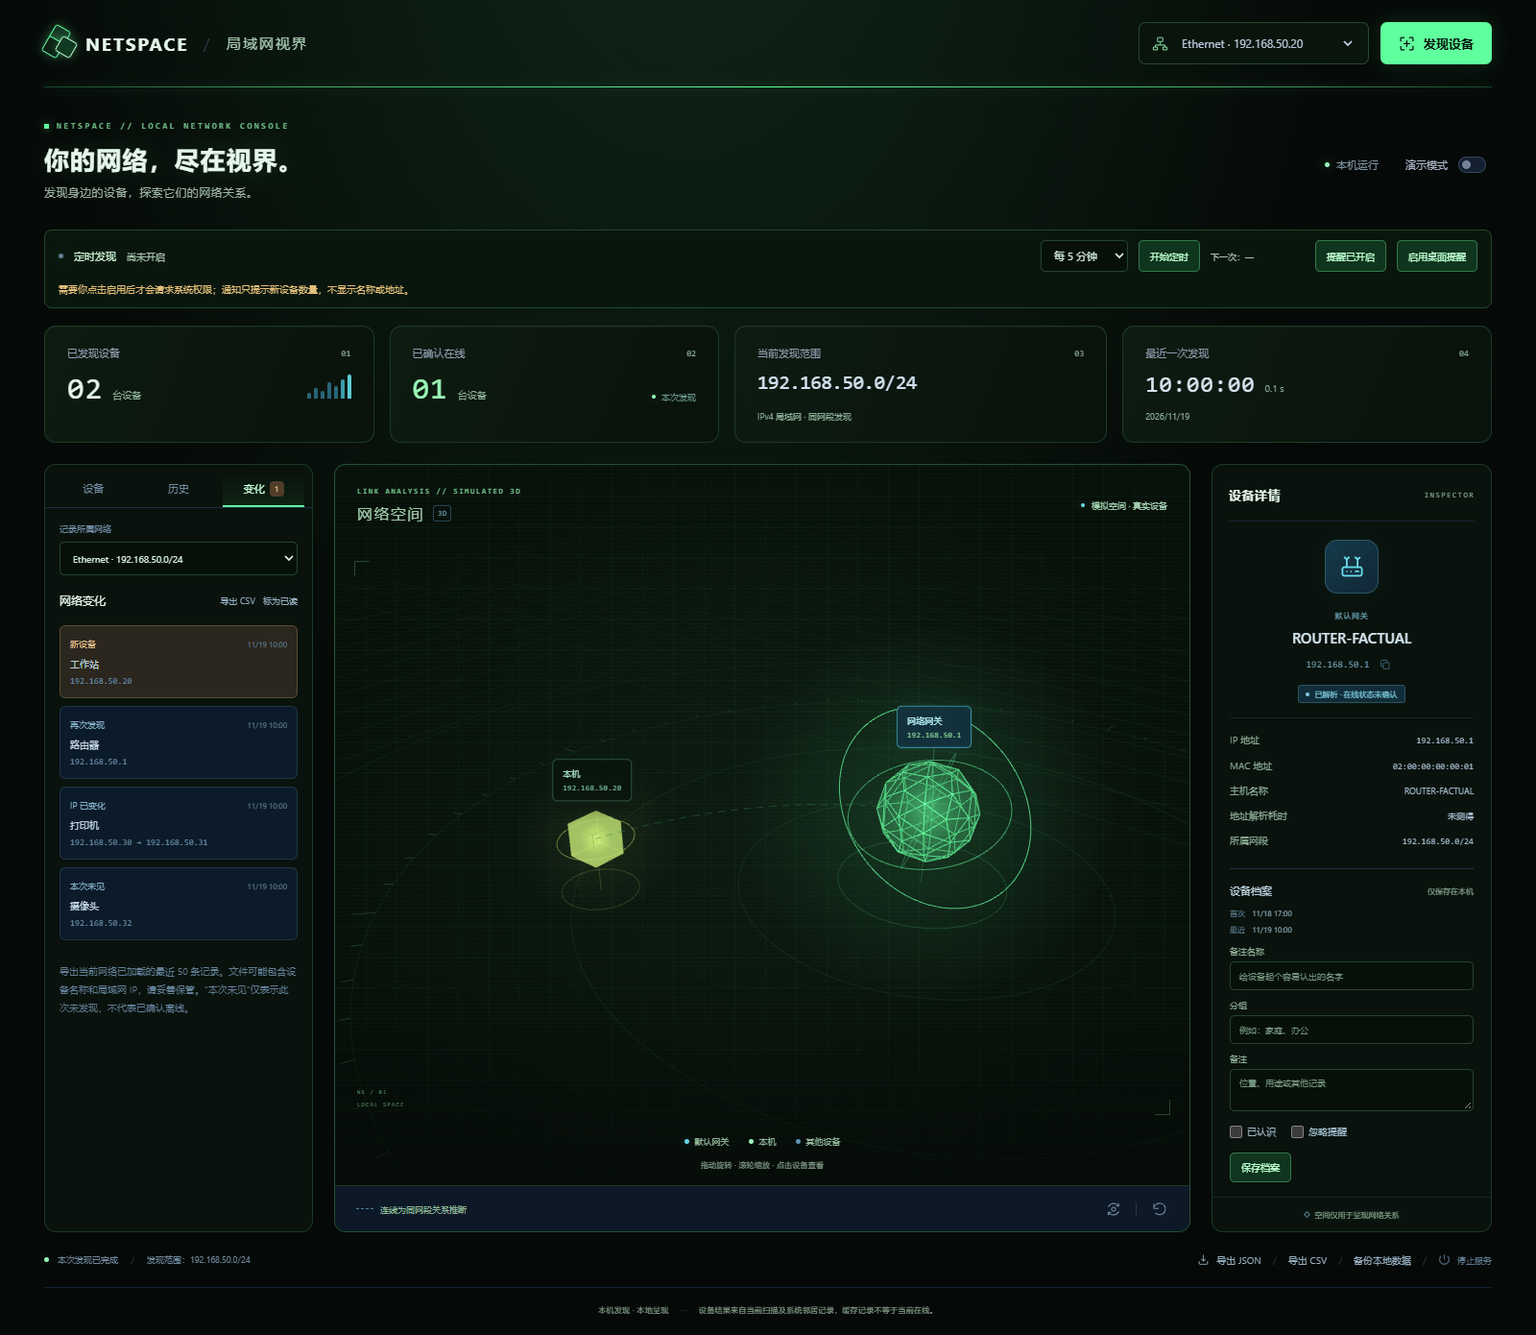
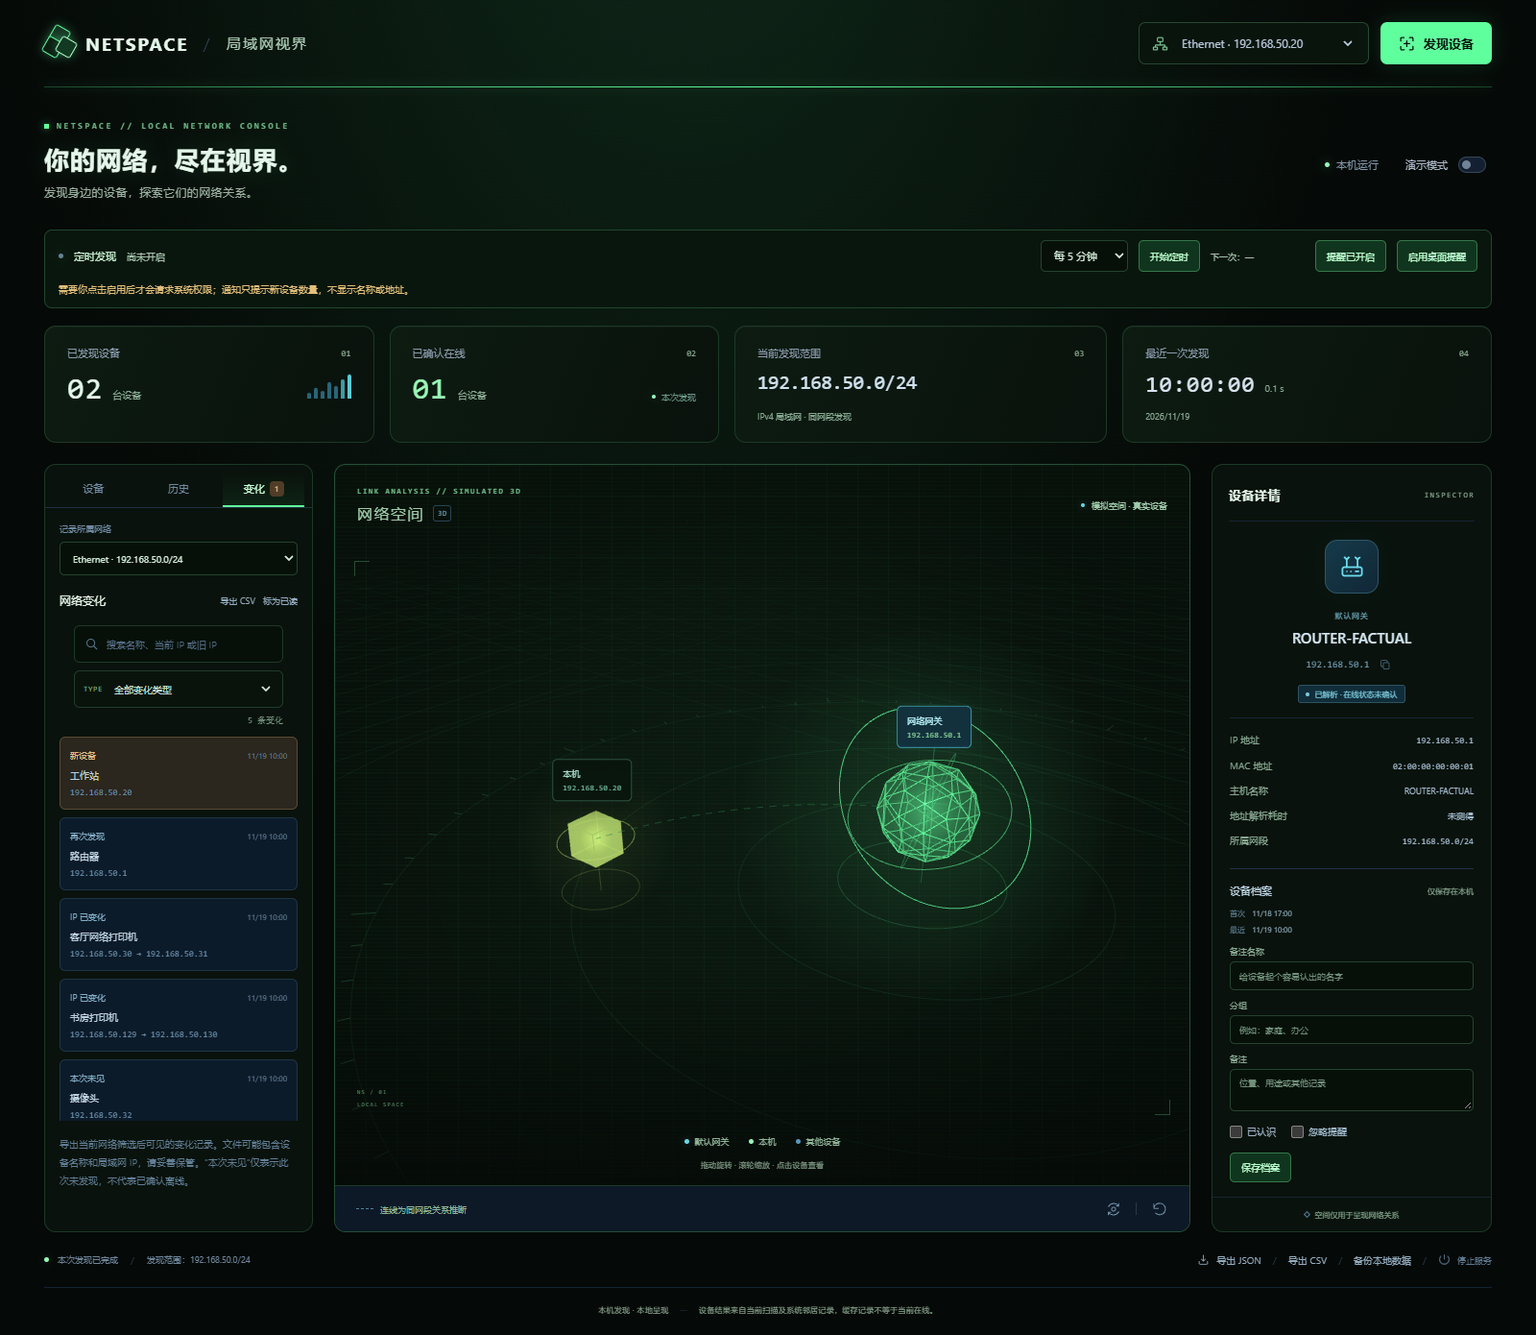
feat: filter and search network changes

Changed region(s): [[0.0312, 0.464, 0.2188, 0.8971]]

diff --git a/web/workspace.js b/web/workspace.js
@@ -1,5 +1,6 @@
 import { buildHistoryComparisonCsv, buildNetworkEventsCsv } from '/csv.js';
 import { deviceIdentity } from '/identity.js';
+import Fuse from '/vendor/fuse.min.js';
 const EMPTY_PROFILE = { alias: '', notes: '', group: '', known: false, ignored: false };
 const EVENT_LABELS = { new: '新设备', returned: '再次发现', not_seen: '本次未见', ip_changed: 'IP 已变化' };
 
@@ -13,6 +14,8 @@ export function createWorkspace(options) {
   let wasDemo = false;
   let networks = [], scans = [], events = [], records = [];
   let unreadCount = 0, archiveError = '', monitorError = '', loadingReplay = false;
+  let eventKindFilter = '', eventQuery = '', eventSearchIndex = null, eventSearchSignature = '';
+  let visibleEvents = [];
   let desktopNotificationsBusy = false;
   let networkSignature = '', historySignature = '', eventSignature = '', liveSignature = '';
   const drafts = new Map(), notifiedEvents = new Set();
@@ -199,15 +202,33 @@ export function createWorkspace(options) {
     finally { if (request === comparisonRequest && !destroyed) { comparisonLoading = false; rerender(); } }
   }
   function renderEvents() {
+    const networkEvents = events.filter(event => event.networkId === networkId);
+    const searchSignature = JSON.stringify([networkId, networkEvents]);
+    if (eventSearchSignature !== searchSignature) {
+      eventSearchSignature = searchSignature;
+      eventSearchIndex = networkEvents.length ? new Fuse(networkEvents, {
+        ignoreLocation: true, minMatchCharLength: 1, shouldSort: true, threshold: 0.32,
+        keys: ['name'],
+      }) : null;
+    }
+    const typedEvents = eventKindFilter ? networkEvents.filter(event => event.kind === eventKindFilter) : networkEvents;
+    if (eventQuery && /^[0-9.]+$/.test(eventQuery)) {
+      visibleEvents = typedEvents.filter(event => [event.ip, event.previousIp].some(value => String(value || '').includes(eventQuery)));
+    } else if (eventQuery && eventSearchIndex) {
+      const matches = new Set(eventSearchIndex.search(eventQuery).map(result => result.item.id));
+      visibleEvents = typedEvents.filter(event => matches.has(event.id) || [event.ip, event.previousIp].some(value => String(value || '').includes(eventQuery)));
+    } else visibleEvents = typedEvents;
     ui['unread-count'].textContent = String(unreadCount);
     ui['unread-count'].classList.toggle('has-unread', unreadCount > 0);
     ui['unread-count'].setAttribute('aria-label', unreadCount + ' 条未读提醒');
     ui['events-read'].disabled = unreadCount <= 0 || readonly() || busy;
-    ui['events-csv-button'].disabled = !networkId || !events.some(event => event.networkId === networkId) || readonly() || busy;
-    const signature = JSON.stringify([networkId, events]);
+    ui['events-csv-button'].disabled = !networkId || !visibleEvents.length || readonly() || busy;
+    const filtering = Boolean(eventKindFilter || eventQuery);
+    ui['event-filter-info'].textContent = filtering ? visibleEvents.length + ' / ' + networkEvents.length + ' 条匹配' : networkEvents.length + ' 条变化';
+    const signature = JSON.stringify([networkId, events, eventKindFilter, eventQuery]);
     if (signature !== eventSignature) {
       eventSignature = signature; ui['event-list'].replaceChildren();
-      for (const event of events) {
+      for (const event of visibleEvents) {
         const li = document.createElement('li'); li.classList.toggle('is-unread', !event.read && event.notify); li.dataset.eventId = String(event.id);
         const header = document.createElement('div'); header.className = 'event-header';
         const kind = document.createElement('span'); kind.textContent = EVENT_LABELS[event.kind] || '发现记录';
@@ -217,11 +238,14 @@ export function createWorkspace(options) {
         li.append(header, name, ip); ui['event-list'].append(li);
       }
     }
-    ui['events-empty'].hidden = events.length > 0;
+    ui['events-empty'].hidden = visibleEvents.length > 0;
+    ui['events-empty'].textContent = networkEvents.length && !visibleEvents.length
+      ? '没有匹配的变化记录。调整类型或关键词后重试。'
+      : '尚无变化记录。首次发现建立基准，后续变化将在这里显示。';
   }
   function exportNetworkEvents() {
     if (!networkId || readonly()) return;
-    const selectedEvents = events.filter(event => event.networkId === networkId);
+    const selectedEvents = visibleEvents;
     if (!selectedEvents.length) return;
     const network = networks.find(item => item.id === networkId);
     const exportedAt = new Date().toISOString();
@@ -230,7 +254,11 @@ export function createWorkspace(options) {
     const anchor = document.createElement('a'); anchor.href = url;
     anchor.download = 'netspace-EVENTS-' + exportedAt.replace(/[:.]/g, '-') + '.csv';
     document.body.append(anchor); anchor.click(); anchor.remove(); setTimeout(() => URL.revokeObjectURL(url), 1000);
-    showToast('已导出当前网络最近 ' + selectedEvents.length + ' 条变化记录');
+    showToast('已导出筛选后的 ' + selectedEvents.length + ' 条变化记录');
+  }
+  function resetEventFilters() {
+    eventKindFilter = ''; eventQuery = ''; eventSearchIndex = null; eventSearchSignature = '';
+    ui['event-kind-filter'].value = ''; ui['event-search'].value = '';
   }
   function renderProfile(result, device) {
     if (!device) { profileKey = ''; return; }
@@ -310,7 +338,7 @@ export function createWorkspace(options) {
       const nextNetworkId = !pinnedNetwork && liveId && networks.some(item => item.id === liveId)
         ? liveId : networks.some(item => item.id === networkId) ? networkId : networks[0]?.id || '';
       if (nextNetworkId !== networkId) {
-        networkId = nextNetworkId; resetComparison(); scans = []; events = []; records = []; unreadCount = 0; archiveError = '';
+        networkId = nextNetworkId; resetComparison(); resetEventFilters(); scans = []; events = []; records = []; unreadCount = 0; archiveError = '';
       }
       rerender();
       if (ready && (readLive || monitor.enabled) && options.readState().status !== 'scanning') {
@@ -348,7 +376,7 @@ export function createWorkspace(options) {
   });
   ui['network-filter'].addEventListener('change', () => {
     networkId = ui['network-filter'].value; pinnedNetwork = true; replayRequest++; replay = null; loadingReplay = false;
-    resetComparison();
+    resetComparison(); resetEventFilters();
     scans = []; events = []; records = []; unreadCount = 0; archiveError = ''; rerender(); loadNetworkRecords();
   });
   for (const id of ['history-compare-source', 'history-compare-target']) ui[id].addEventListener('change', () => {
@@ -402,6 +430,8 @@ export function createWorkspace(options) {
     catch (error) { archiveError = '未能标为已读：' + error.message; }
     finally { busy = false; rerender(); }
   });
+  ui['event-search'].addEventListener('input', () => { eventQuery = ui['event-search'].value.trim(); renderEvents(); });
+  ui['event-kind-filter'].addEventListener('change', () => { eventKindFilter = ui['event-kind-filter'].value; renderEvents(); });
   ui['events-csv-button'].addEventListener('click', exportNetworkEvents);
   return {
     get replayResult() { return replay; }, render, initialize: refresh, leaveReplay,

diff --git a/web/index.html b/web/index.html
@@ -83,7 +83,7 @@
           <div class="device-panel-bottom"><span class="status-dot"></span><span id="device-panel-note">从本机发现当前局域网</span></div>
           </div>
           <div id="history-pane" class="archive-pane" role="tabpanel" aria-labelledby="tab-history" hidden><div class="archive-heading"><h2>发现历史</h2><span class="micro-label">本机保存</span></div><label class="sr-only" for="history-scan">选择历史发现快照</label><select id="history-scan" size="7"><option value="">尚无历史记录</option></select><p class="archive-help">选择一次发现，回看当时的设备。历史快照仅供查看，保存的设备档案不会丢失。</p><section id="history-comparison-section" class="history-compare" aria-labelledby="history-compare-heading"><div class="history-compare-heading"><h3 id="history-compare-heading">快照差异</h3><span class="micro-label">同一网络</span></div><label for="history-compare-source">比较起点</label><select id="history-compare-source"><option value="">选择起始快照</option></select><label for="history-compare-target">比较终点</label><select id="history-compare-target"><option value="">选择对比快照</option></select><button id="history-compare-button" class="compact-button" type="button">对比两次发现</button><button id="history-csv-button" class="compact-button history-csv-button" type="button" disabled>导出差异 CSV</button><div id="history-comparison-results" class="history-comparison-results" aria-live="polite" aria-atomic="true"><p id="history-comparison-status" class="history-compare-status">选择两次同一网络的发现记录，查看设备变化。</p><ul id="history-comparison-list" class="history-comparison-list"></ul></div><p class="archive-help comparison-caveat">“上次存在、本次未见”只表示这次发现中没有记录到该设备，不代表已确认离线。比较仅使用本机保存的快照。</p></section></div>
-          <div id="events-pane" class="archive-pane" role="tabpanel" aria-labelledby="tab-events" hidden><div class="archive-heading"><h2>网络变化</h2><div class="archive-heading-actions"><button id="events-csv-button" class="text-button" type="button" disabled aria-describedby="events-csv-help">导出 CSV</button><button id="events-read" class="text-button" disabled>标为已读</button></div></div><ul id="event-list" class="event-list" aria-label="设备变化记录"></ul><p id="events-empty" class="archive-help">尚无变化记录。首次发现建立基准，后续变化将在这里显示。</p><p id="events-csv-help" class="archive-help">导出当前网络已加载的最近 50 条记录。文件可能包含设备名称和局域网 IP，请妥善保管。“本次未见”仅表示此次未发现，不代表已确认离线。</p></div>
+          <div id="events-pane" class="archive-pane" role="tabpanel" aria-labelledby="tab-events" hidden><div class="archive-heading"><h2>网络变化</h2><div class="archive-heading-actions"><button id="events-csv-button" class="text-button" type="button" disabled aria-describedby="events-csv-help">导出 CSV</button><button id="events-read" class="text-button" disabled>标为已读</button></div></div><div class="event-filters" aria-label="筛选网络变化"><div class="search-field event-search-field"><svg class="icon" aria-hidden="true"><use href="#i-search"/></svg><label class="sr-only" for="event-search">设备名称模糊搜索，IP 精确片段搜索</label><input id="event-search" type="search" placeholder="搜索名称、当前 IP 或旧 IP" autocomplete="off" aria-controls="event-list"></div><div class="event-kind-filter"><label class="sr-only" for="event-kind-filter">按变化类型筛选</label><span class="filter-prompt" aria-hidden="true">TYPE</span><select id="event-kind-filter" aria-controls="event-list"><option value="">全部变化类型</option><option value="new">新设备</option><option value="returned">再次发现</option><option value="ip_changed">IP 已变化</option><option value="not_seen">本次未见</option></select></div><span id="event-filter-info" class="event-filter-info" role="status" aria-live="polite">0 条变化</span></div><ul id="event-list" class="event-list" aria-label="设备变化记录"></ul><p id="events-empty" class="archive-help">尚无变化记录。首次发现建立基准，后续变化将在这里显示。</p><p id="events-csv-help" class="archive-help">导出当前网络筛选后可见的变化记录。文件可能包含设备名称和局域网 IP，请妥善保管。“本次未见”仅表示此次未发现，不代表已确认离线。</p></div>
         </aside>
 
         <section class="scene-panel" aria-labelledby="scene-title">

diff --git a/web/style.css b/web/style.css
@@ -81,3 +81,4 @@ body:before{background:radial-gradient(ellipse at 46% -20%,#1a492b55,transparent
 @media(max-width:760px){.footer-actions .footer-separator{display:none}}
 .archive-heading-actions{display:flex;align-items:center;justify-content:flex-end;gap:8px;flex-wrap:wrap}.archive-heading-actions .text-button{font-size:9px}
 @media(max-width:760px){.archive-heading-actions{gap:6px}.archive-heading-actions .text-button{min-height:36px;font-size:10px}}
+.event-filters{display:grid;grid-template-columns:minmax(0,1fr) minmax(135px,.62fr);gap:8px 10px;align-items:center;margin:0 15px 12px}.event-search-field{margin:0;min-width:0}.event-search-field input{font-size:10px}.event-kind-filter{display:flex;align-items:center;gap:8px;min-height:39px;min-width:0;padding:0 9px;border:1px solid #223c2c;border-radius:6px;background:#09130c}.event-kind-filter:focus-within{border-color:#45bc6d;box-shadow:0 0 0 2px #60ff9d1c}.event-kind-filter select{width:100%;min-width:0;height:35px;border:0;outline:none;background:transparent;color:#cce0d1;font-size:10px}.event-kind-filter option{background:#09130c;color:#cce0d1}.event-filter-info{grid-column:1/-1;justify-self:end;color:#779782;font:9px "Cascadia Code",Consolas,monospace}.event-filters select:focus-visible,.event-filters input:focus-visible{outline:none}@media(max-width:760px){.event-filters{grid-template-columns:minmax(0,1fr);gap:8px;margin:0 12px 10px}.event-filter-info{grid-column:1;justify-self:start}.event-search-field,.event-kind-filter{min-height:39px}.event-kind-filter select{height:35px}}@media(min-width:761px){#events-pane .event-filters{grid-template-columns:minmax(0,1fr)}}

diff --git a/tools/packaged_smoke.py b/tools/packaged_smoke.py
@@ -9,6 +9,7 @@ import subprocess
 import tempfile
 import time
 import urllib.request
+from zipfile import ZipFile
 
 
 def main():
@@ -16,6 +17,11 @@ def main():
     parser.add_argument('--exe', default='dist/NetSpace.exe')
     parser.add_argument('--port', type=int, default=8766)
     args = parser.parse_args()
+    distribution = Path(__file__).resolve().parent.parent / 'dist' / 'NetSpace-Windows-x64.zip'
+    with ZipFile(str(distribution)) as archive:
+        archive_names = set(archive.namelist())
+        assert 'FUSE-LICENSE.txt' in archive_names, 'Windows distribution must include the vendored Fuse.js license'
+        assert 'THIRD_PARTY_NOTICES.md' in archive_names, 'Windows distribution must include third-party notices'
     executable = str(Path(args.exe).resolve())
     base = 'http://127.0.0.1:{}'.format(args.port)
     opener = urllib.request.build_opener(urllib.request.ProxyHandler({}))
@@ -66,7 +72,7 @@ def main():
                 raise RuntimeError('Packaged application exited before startup')
             try:
                 health = request('/api/health', timeout=1)
-                assert health == {'app': 'NetSpace', 'version': '1.11.0'}
+                assert health == {'app': 'NetSpace', 'version': '1.12.0'}
                 break
             except Exception:
                 if time.monotonic() > deadline:
@@ -88,7 +94,7 @@ def main():
         wait_start()
         checks.append('bundled runtime without Python on PATH')
         for resource in ('/', '/app.js', '/workspace.js', '/csv.js', '/identity.js', '/scene.js', '/style.css',
-                         '/vendor/three.module.js', '/vendor/three.core.js', '/vendor/OrbitControls.js'):
+                         '/vendor/three.module.js', '/vendor/three.core.js', '/vendor/OrbitControls.js', '/vendor/fuse.min.js'):
             bundled = request(resource)
             assert len(bundled) > 100, resource
             policy = response_headers(resource).get('Content-Security-Policy', '')

diff --git a/tests/test_app.py b/tests/test_app.py
@@ -63,7 +63,7 @@ class LocalServerTests(unittest.TestCase):
     def test_interfaces_and_initial_state(self):
         status, health = self.request('/api/health')
         self.assertEqual(status, 200)
-        self.assertEqual(health['version'], '1.11.0')
+        self.assertEqual(health['version'], '1.12.0')
         status, body = self.request('/api/interfaces')
         self.assertEqual(status, 200)
         self.assertEqual(body['interfaces'][0]['id'], '7')

diff --git a/app.py b/app.py
@@ -27,7 +27,7 @@ from monitoring import MonitorController
 from network_store import NetworkStore
 
 
-VERSION = '1.11.0'
+VERSION = '1.12.0'
 RESOURCE_ROOT = Path(getattr(sys, '_MEIPASS', Path(__file__).resolve().parent))
 WEB_ROOT = RESOURCE_ROOT / 'web'
 LOGGER = logging.getLogger('netspace')

diff --git a/docs/verification-1.12.0-2026-11-20.md b/docs/verification-1.12.0-2026-11-20.md
@@ -1,0 +1,19 @@
+# NetSpace 1.12.0 Verification Record
+
+Date: 2026-11-20
+
+## Results
+
+- python -m unittest discover -s tests -v: 84 regression tests passed; the local service reports version 1.12.0.
+- node tools/ui_smoke.cjs: local Fuse.js module, CSP, no external requests, demo isolation, CSV protections, backups, device filters and 320/375 px layouts passed.
+- node tools/ui_upgrade.cjs: type filters, typo-tolerant device-name search, literal current/previous IP fragments (including the `.30` / `.130` short-fragment case), filter composition, unchanged network unread totals, visible-result CSV, empty-state export disabling, reset on network switch, hostile text, historical/demo isolation and mobile layouts passed.
+- node tools/ui_recovery.cjs: adapter reconnection and in-flight scan recovery passed.
+- powershell -NoProfile -ExecutionPolicy Bypass -File build.ps1: Windows single-file executable and distribution archives built. The source package includes the pinned Fuse.js module and full Apache-2.0 license.
+- python tools/packaged_smoke.py: bundled app, local Fuse.js asset, distribution license notices, native discovery, persistence, backup and scheduled discovery checks passed.
+- JavaScript syntax checks and git diff --check: passed.
+
+## Scope and handling
+
+Search and event-type filtering run locally over the latest loaded records for the selected network. Fuse.js 7.5.0 only scores device names; numeric IP queries use literal contiguous-substring matching across the current and previous address and are not fuzzy-scored. Short fragments may match multiple addresses. The filtered list and CSV share the same result set, while the unread badge continues to count all unread events for the selected network. Switching networks clears both controls.
+
+The browser UI test uses synthetic event names and addresses. Fuse.js is vendored from upstream tag v7.5.0 at commit 45bac9fe2e71fe8c680c861a35a8b226c4ae6d5a, loaded locally, and distributed with its upstream Apache-2.0 license.

diff --git a/docs/superpowers/plans/2026-11-20-netspace-hacker-iterations.md b/docs/superpowers/plans/2026-11-20-netspace-hacker-iterations.md
@@ -55,3 +55,14 @@ Define a peer as needing review when it is not the local `self` record and its s
 - [x] Verify the combined review/status/search filter and the profile-save transition that removes a recognized record from the queue.
 - [x] Run all Python tests, browser smoke/recovery/upgrade checks, Windows build and packaged smoke; refresh and inspect the synthetic README screenshot.
 - [x] Add the dated README iteration and verification record; run `git diff --check`; commit and push `feat: add device review queue`.
+
+### Iteration 5: Network change filters and search (1.12.0)
+
+**Files:** `web/index.html`, `web/style.css`, `web/workspace.js`, `tools/ui_upgrade.cjs`, `tools/ui_smoke.cjs`, `tools/packaged_smoke.py`, `build.ps1`, `tests/test_app.py`, `THIRD_PARTY_NOTICES.md`, `README.md`, `docs/images/netspace-events-export.png`, `docs/verification-1.12.0-2026-11-20.md`.
+
+Reuse pinned upstream Fuse.js 7.5.0 for typo-tolerant device-name search. Match IP queries as literal substrings, compose type and text filters, and use the same selected-network result set for rendering and CSV export. Bundle the upstream license for offline Windows distribution.
+
+- [x] Add type filtering and name/IP search, with accessible text describing fuzzy name matching and exact IP matching.
+- [x] Verify search/filter composition, CSV parity, empty results, network isolation/reset, unread counts, untrusted text rendering, offline loading, and narrow layouts using synthetic fixtures.
+- [x] Add the dated README entry, third-party license attribution, screenshot, and verification record; build and smoke-test Windows distribution.
+- [x] Re-run all verification after the final search/attribution adjustments; commit and push `feat: filter and search network changes`.

diff --git a/THIRD_PARTY_NOTICES.md b/THIRD_PARTY_NOTICES.md
@@ -10,6 +10,14 @@ Official package: https://registry.npmjs.org/three/-/three-0.187.0.tgz
 
 Vendored assets: `three.module.js`, `three.core.js`, `examples/jsm/controls/OrbitControls.js`.
 
+## Fuse.js 7.5.0
+
+Copyright 2017 Kirollos Risk. Apache License 2.0. The upstream license is included at `web/vendor/FUSE-LICENSE.txt` in source and `FUSE-LICENSE.txt` in the distribution.
+
+Official source: https://github.com/krisk/Fuse/tree/v7.5.0
+
+Vendored asset: `web/vendor/fuse.min.js` (`dist/fuse.min.mjs` from tag `v7.5.0`, upstream commit `45bac9fe2e71fe8c680c861a35a8b226c4ae6d5a`).
+
 ## CPython
 
 The portable Windows application includes the CPython runtime. Python is distributed under the Python Software Foundation License and related licenses; the complete license from the build runtime is included as `PYTHON-LICENSE.txt` in the distribution.
